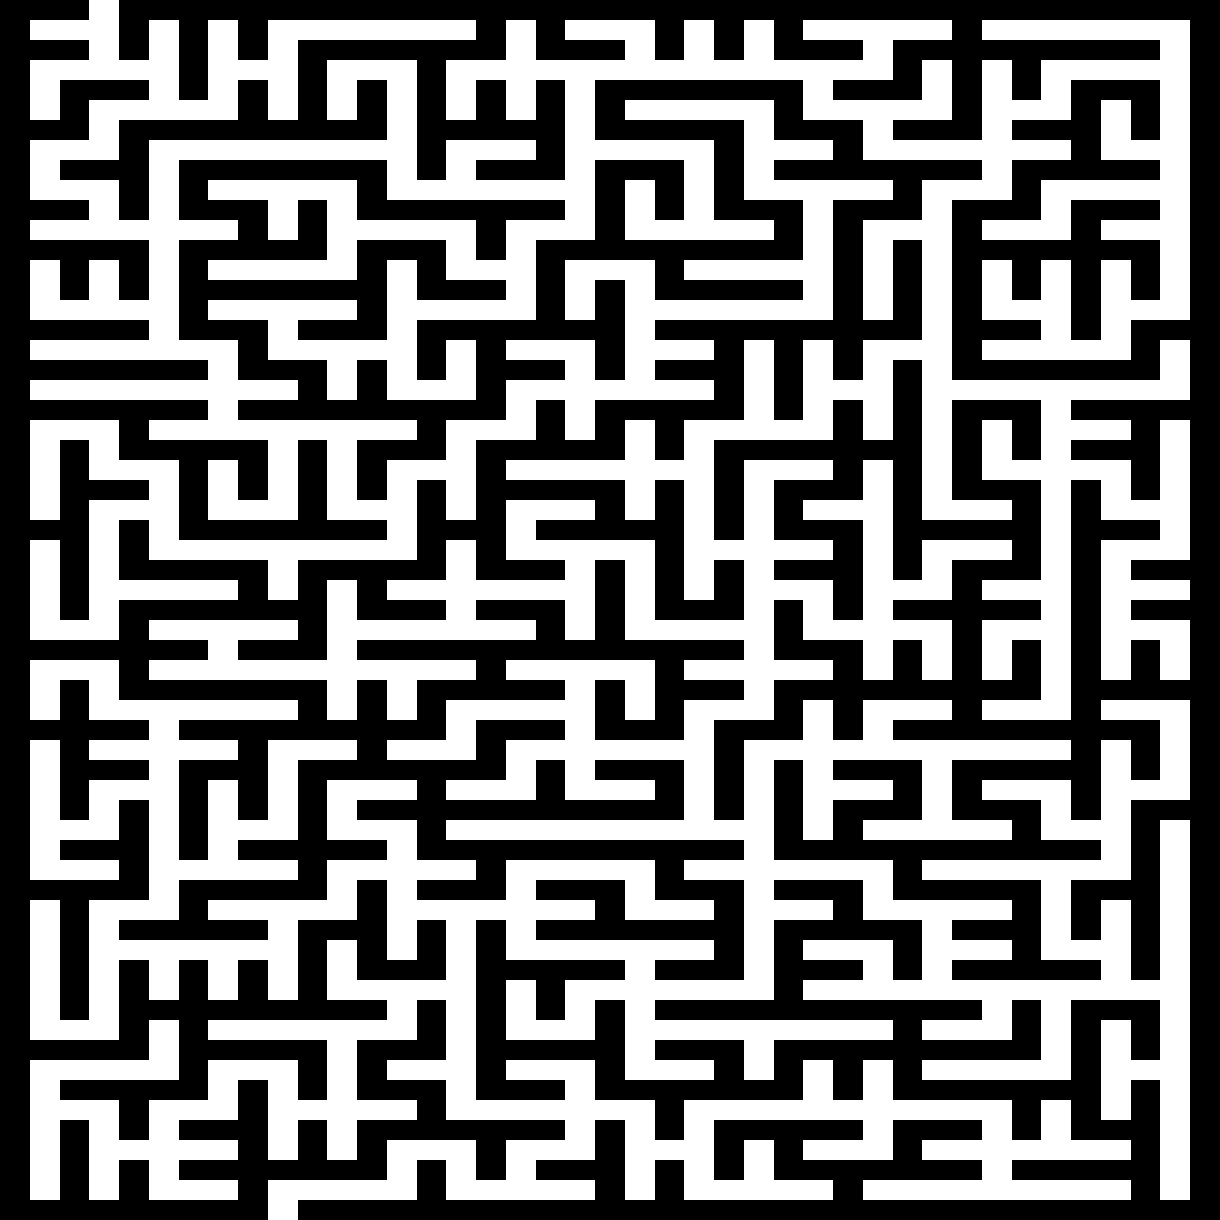
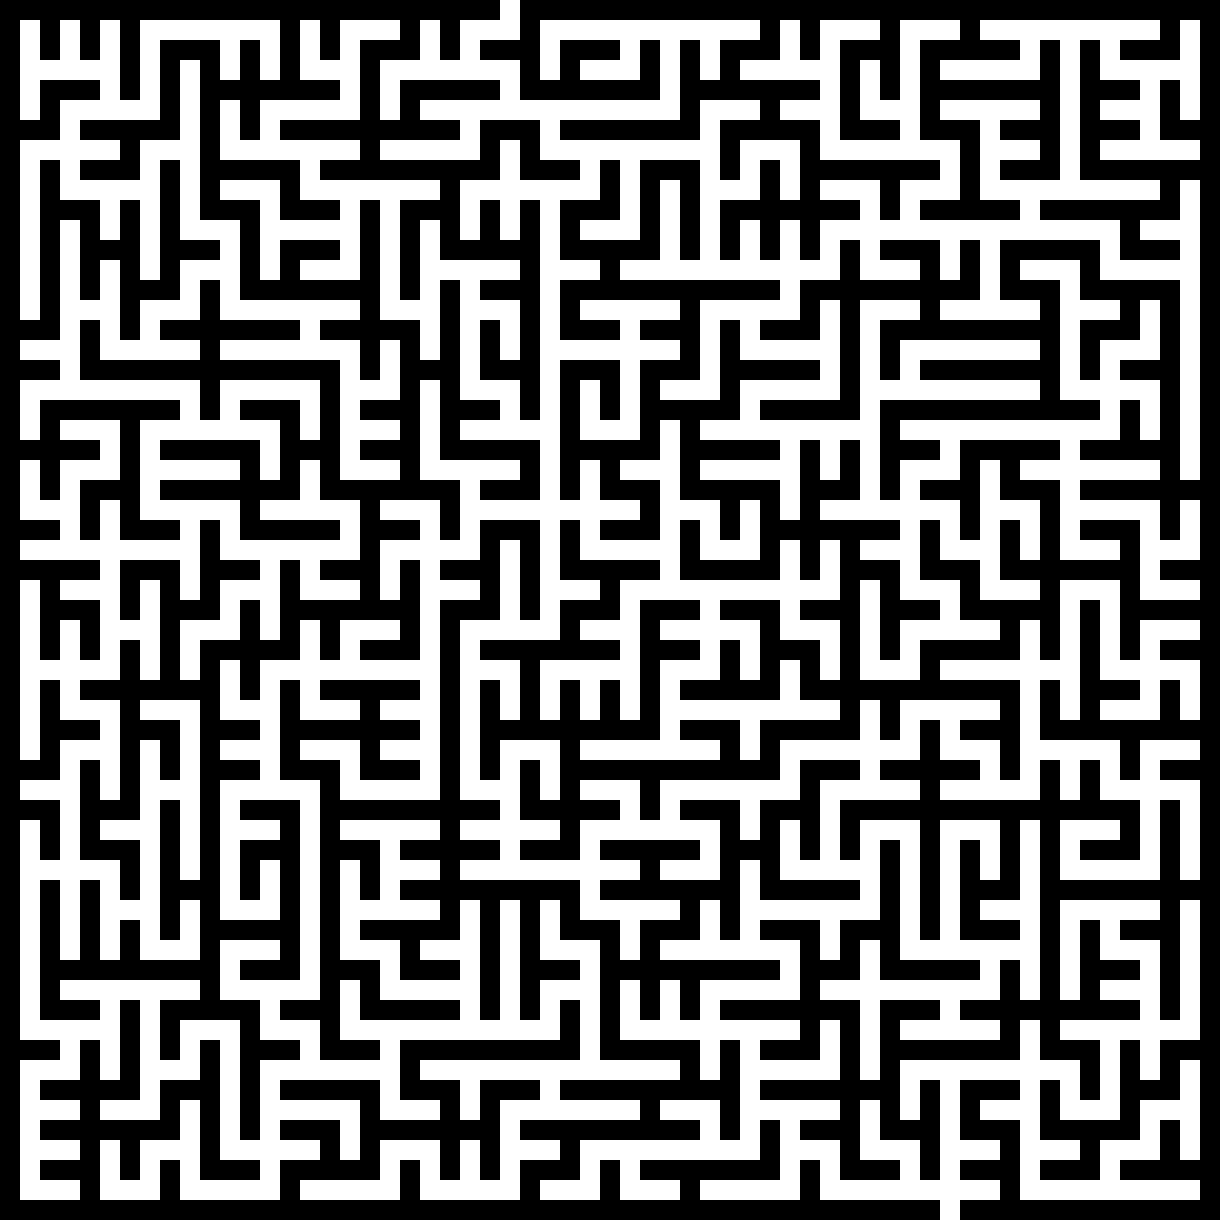
gif functionality is here! It is a mess though so I am going to save what I have here, make a new branch out of it then revert the master to what it was before I made this mess.

diff --git a/generator.py b/generator.py
@@ -1,4 +1,4 @@
-"""Maze Generator Created By Salvatore Ciatti"""
+"""Maze Generator Created By Salvatore Ciatti and Andrew Chen"""
 
 from PIL import Image #allows the creation and deletion of images
 import numpy as np
@@ -8,6 +8,7 @@ import time
 import generator_utils as util
 from random_dfs import random_DFS
 from random_kruskal import random_kruskals
+from random_prims import random_prims
 
 def main():
     parser = argparse.ArgumentParser()
@@ -32,20 +33,30 @@ def generate(method, rows, cols, filename, upscale, colored):
         grid = random_kruskals(rows, cols)
         maze = np.zeros(((2 * rows) + 1, (2 * cols) + 1), dtype=np.uint8)
         create_image(maze, grid, filename, upscale, colored)
+    if method == 'Prims':
+        grid = random_prims(rows, cols)
+        maze = np.zeros(((2 * rows) + 1, (2* cols) + 1), dtype=np.uint8)
+        create_image(maze, grid, filename, upscale, colored)
 
-def squareRoutine(node, maze, index):
+
+def squareRoutine(node, maze, index, debug):
     for i in range(4):
         if node.walls[i] == 'X':
             mark_as_white = util.maze_index(index, i)
             maze[mark_as_white[0], mark_as_white[1]] = 255
-        maze[index[0], index[1]] = 255
+        if not debug:
+            if node.visited:
+                maze[index[0], index[1]] = 255
+        if debug:
+            maze[index[0], index[1]] = 255
 
-def create_image(maze, grid, filename, upscale, colored):
+def create_image(maze, grid, filename, upscale, colored, debug=False):
     #print(maze.shape)
     for i in range(len(grid)):
         for j in range(len(grid[i])):
             current_node = grid[i][j]
-            squareRoutine(current_node, maze, ((2*i) + 1, (2*j) + 1))
+            #visited = util.check_visitation(grid, (i,j))
+            squareRoutine(current_node, maze, ((2*i) + 1, (2*j) + 1), debug)
     original = Image.fromarray(maze)
     if colored == True:
         tmp = []
@@ -97,5 +108,6 @@ def create_image(maze, grid, filename, upscale, colored):
     if upscale == True:
         img = img.resize((maze.shape[0] * 20, maze.shape[0] * 20), Image.NEAREST)
     img.save(filename)
+    return img
 
 main()

diff --git a/random_dfs.py b/random_dfs.py
@@ -1,6 +1,7 @@
 import generator_utils as util
 import random
 from collections import deque
+import numpy as np
 
 class node:
     visited = False
@@ -19,6 +20,11 @@ def random_DFS(rows, cols):
     grid[0][x].walls[2] = 'X'
     stack.append(grid[0][x])
     #2
+    count = 1
+    gif_arr = []
+    maze = np.zeros(((2 * rows) + 1, (2 * cols) + 1), dtype=np.uint8)
+    newIMG = util.create_snapshot(maze, grid, "genOutput/SNAPSHOT0.png", True, False)
+    gif_arr.append(newIMG)
     while len(stack) != 0:
         #1
         curr = stack.pop()
@@ -36,6 +42,20 @@ def random_DFS(rows, cols):
             #4
             new_curr.visited = True
             stack.append(new_curr)
+
+            maze = np.zeros(((2 * rows) + 1, (2 * cols) + 1), dtype=np.uint8)
+            newIMG = util.create_snapshot(maze, grid, "genOutput/SNAPSHOT" + str(count) + ".png", True, False)
+            gif_arr.append(newIMG)
+            count+=1
     x = random.randint(0, cols - 1)
     grid[rows - 1][x].walls[3] = 'X'
+    maze = np.zeros(((2 * rows) + 1, (2 * cols) + 1), dtype=np.uint8)
+    newIMG = util.create_snapshot(maze, grid, "genOutput/SNAPSHOT" + str(count) + ".png", True, False)
+    gif_arr.append(newIMG)
+    end = gif_arr[-1]
+    for _ in range(30):
+        gif_arr.append(end)
+    from PIL import Image
+    img = gif_arr[0]
+    img.save('out.gif', save_all=True, append_images=gif_arr[1:], loop=0)
     return grid

diff --git a/generator_utils.py b/generator_utils.py
@@ -86,3 +86,7 @@ def maze_index(index, dir):
     elif dir == 2:
         return (index[0] - 1, index[1])
     return (index[0] + 1, index[1])
+
+def create_snapshot(maze, grid, filename, upscale, colored):
+    from generator import create_image
+    return create_image(maze, grid, filename, upscale, colored)

diff --git a/random_prims.py b/random_prims.py
@@ -1,0 +1,12 @@
+import random
+import generator_utils as util
+import numpy as np
+
+class node:
+    def __init__(self, walls_in):
+        self.walls = walls_in
+
+#TODO
+def random_prims(rows, cols):
+    print("implement")
+    return np.zeros((rows,cols), dtype=np.uint8)
